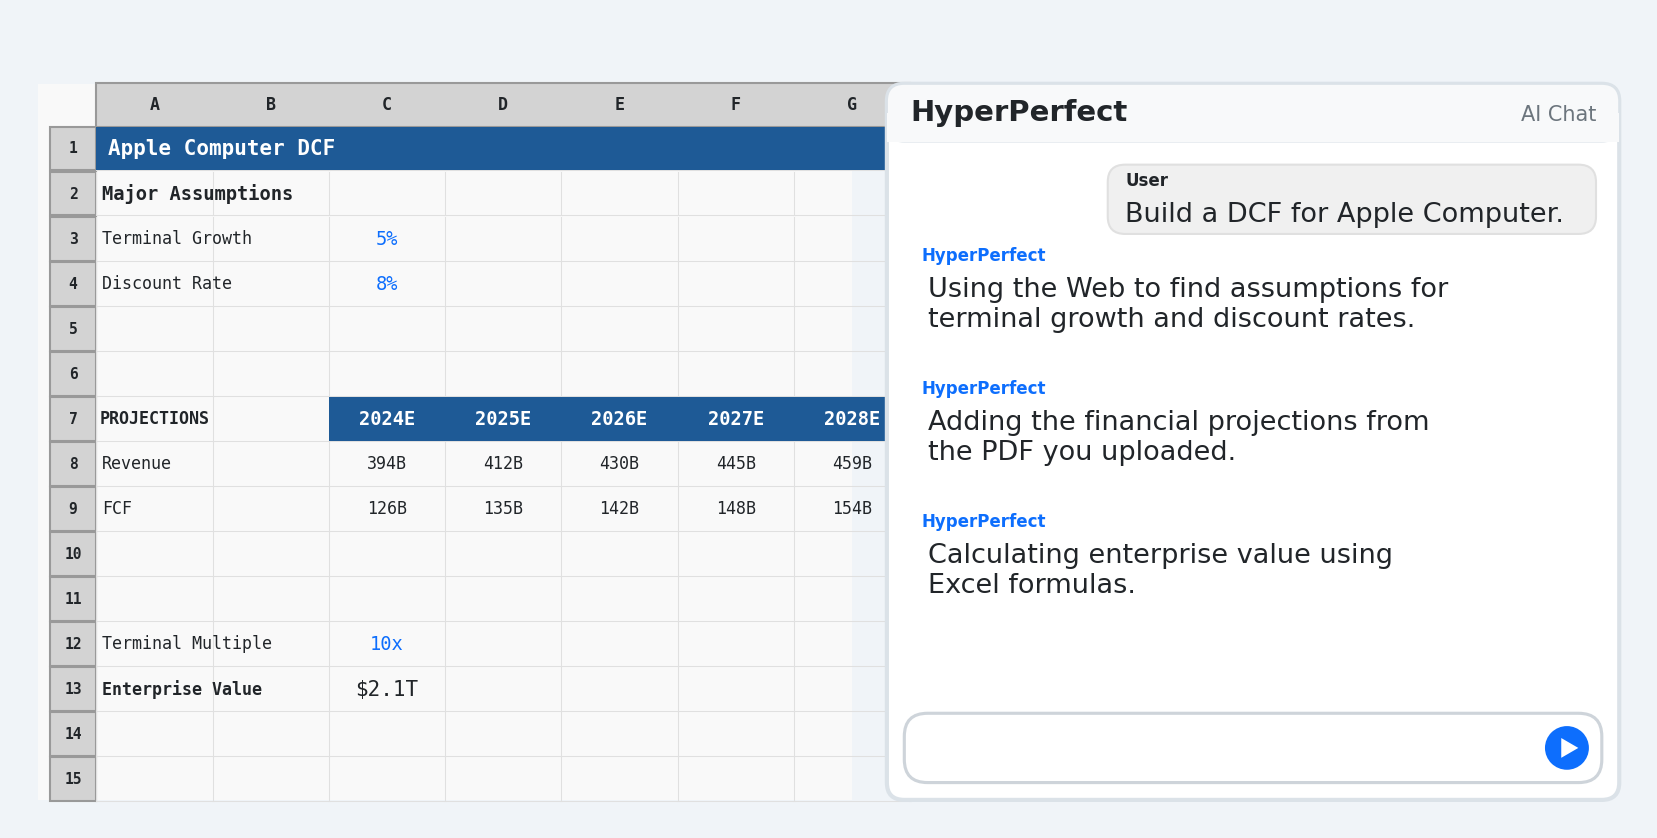
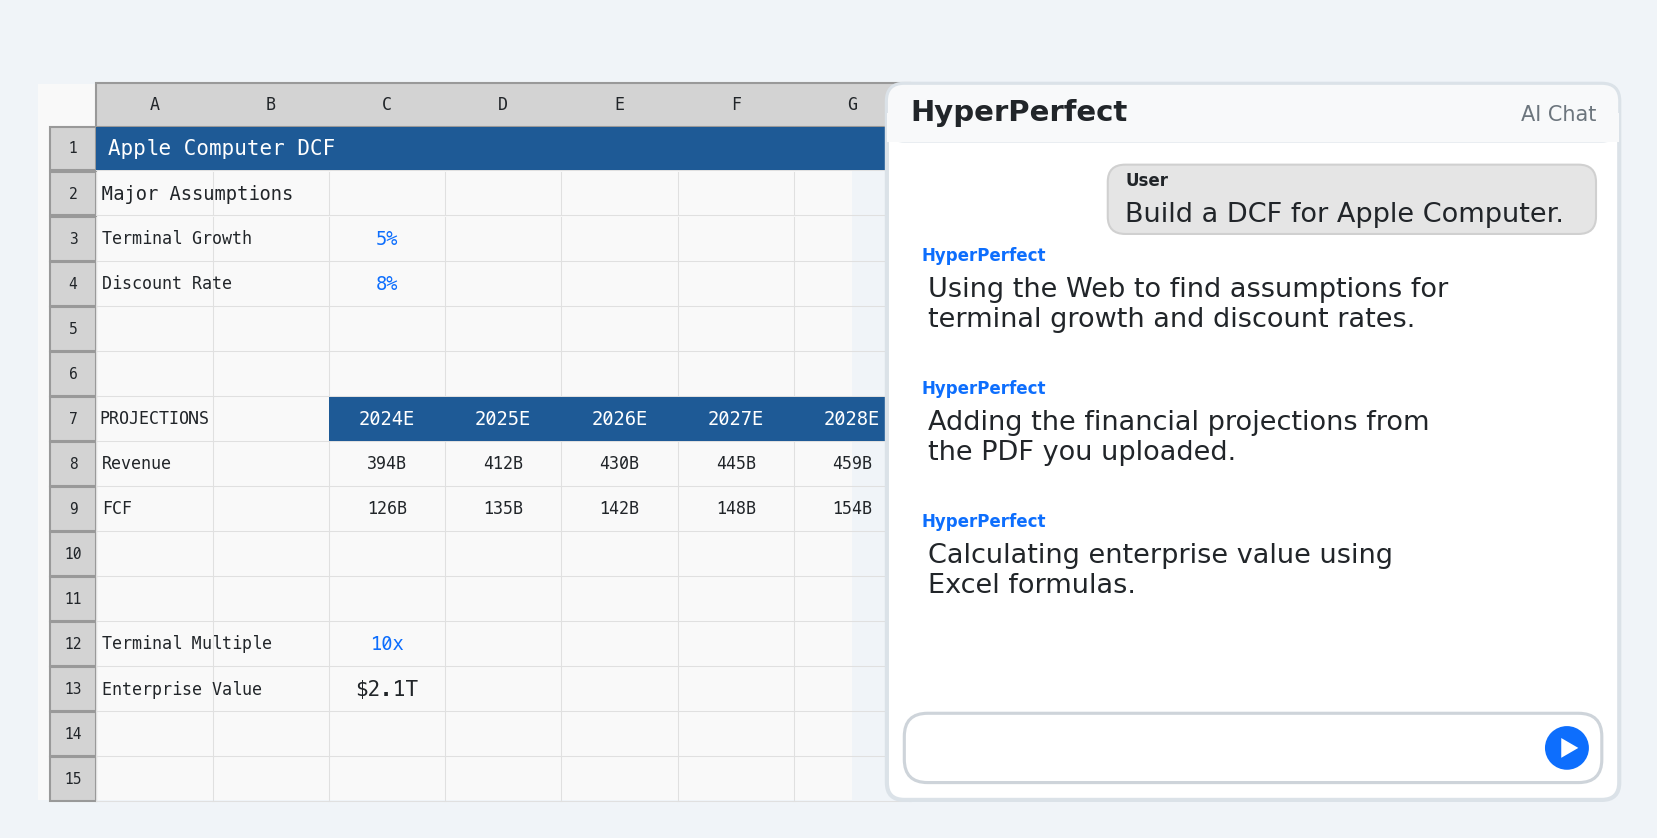
good enough

diff --git a/assets/animations/make-dcf-animation.py b/assets/animations/make-dcf-animation.py
@@ -18,9 +18,9 @@ input_h = 60
 
 # --- Helper Functions ---
 
-def draw_rounded_rect(ax, x, y, w, h, r, color, ec=None, lw=1):
+def draw_rounded_rect(ax, x, y, w, h, r, color, ec=None, lw=1, zorder=1):
     box = patches.FancyBboxPatch((x, y), w, h, boxstyle=f"round,pad=0,rounding_size={r}",
-                                 facecolor=color, edgecolor=ec if ec else "none", linewidth=lw, zorder=1)
+                                 facecolor=color, edgecolor=ec if ec else "none", linewidth=lw, zorder=zorder)
     ax.add_patch(box)
     return box
 
@@ -36,19 +36,19 @@ def draw_ui_layout():
 
     # Add title text to blue background
     ax.text(start_x + 10, start_y + cell_h/2, 'Apple Computer DCF', fontsize=10, color='white',
-            ha='left', va='center', fontweight='bold', zorder=4, fontfamily='monospace')
+            ha='left', va='center', fontweight='bold', zorder=4, fontfamily='Menlo')
 
-    # Chat Panel (high zorder to appear in front of Excel grid)
-    draw_rounded_rect(ax, chat_x, chat_y, chat_w, chat_h, 15, 'white', '#dbe2e8', lw=2)
+    # Chat Panel (high zorder to appear in front of Excel grid and cell highlights)
+    draw_rounded_rect(ax, chat_x, chat_y, chat_w, chat_h, 15, 'white', '#dbe2e8', lw=2, zorder=10)
     # Chat Header
-    draw_rounded_rect(ax, chat_x, chat_y + chat_h - header_h, chat_w, header_h, 15, '#f8f9fa', '#dbe2e8')
+    draw_rounded_rect(ax, chat_x, chat_y + chat_h - header_h, chat_w, header_h, 15, '#f8f9fa', '#dbe2e8', zorder=10)
     rect_chat = patches.Rectangle((chat_x, chat_y + chat_h - header_h), chat_w, header_h/2, facecolor='#f8f9fa', zorder=50)
     ax.add_patch(rect_chat)
     ax.text(chat_x + 20, chat_y + chat_h - 32, "HyperPerfect", fontsize=14, fontweight='bold', color='#212529', zorder=51)
     ax.text(chat_x + chat_w - 20, chat_y + chat_h - 32, "AI Chat", fontsize=10, color='#6c757d', zorder=51, ha='right')
 
     # Input Box Area
-    draw_rounded_rect(ax, chat_x + 15, chat_y + 15, chat_w - 30, input_h, 20, '#ffffff', '#ced4da', lw=1.5)
+    draw_rounded_rect(ax, chat_x + 15, chat_y + 15, chat_w - 30, input_h, 20, '#ffffff', '#ced4da', lw=1.5, zorder=10)
 
     # Send Button
     circle = patches.Circle((chat_x + chat_w - 45, chat_y + 45), 18, color='#0d6efd', zorder=52)
@@ -63,9 +63,10 @@ def draw_user_message(text, y_pos):
     bubble_x = chat_x + chat_w - bubble_w - 20
 
     # Higher zorder for user bubble to appear in GIF
+    # Use a more distinct gray (#e5e5e5) so it doesn't get quantized to white in the GIF's 256-color palette
     bubble = patches.FancyBboxPatch((bubble_x, y_pos), bubble_w, bubble_h,
                                      boxstyle="round,pad=0,rounding_size=15",
-                                     facecolor='#f0f0f0', edgecolor='#e0e0e0', linewidth=1, zorder=60)
+                                     facecolor='#e5e5e5', edgecolor='#d0d0d0', linewidth=1, zorder=60)
     ax.add_patch(bubble)
     # User label
     ax.text(bubble_x + 15, y_pos + bubble_h - 18, "User", fontsize=8, color='#212529', zorder=61, fontweight='bold')
@@ -121,7 +122,8 @@ def draw_thinking_indicator(y_pos):
 def draw_input_placeholder(text, show_cursor=True):
     """Draw input text in the input box"""
     cursor = "|" if show_cursor else ""
-    ax.text(chat_x + 30, chat_y + 40, text + cursor, fontsize=11, color='#212529', zorder=5, fontweight='normal')
+    # zorder must be higher than input box background (zorder=10)
+    ax.text(chat_x + 30, chat_y + 40, text + cursor, fontsize=11, color='#212529', zorder=15, fontweight='normal')
 
 def draw_excel_cell(x, y, w, h, text, color='white', text_color='#212529', fontweight='normal', fontsize=10, highlight=False, is_formula=False, align='center'):
     """Draw an Excel cell"""
@@ -141,10 +143,10 @@ def draw_excel_cell(x, y, w, h, text, color='white', text_color='#212529', fontw
 
         if is_formula:
             ax.text(text_x, y + h/2, str(text), fontsize=fontsize - 1, color='#d9534f',
-                    ha=align, va='center', fontweight=fontweight, zorder=3, fontfamily='monospace')
+                    ha=align, va='center', fontweight=fontweight, zorder=3, fontfamily='Menlo')
         else:
             ax.text(text_x, y + h/2, str(text), fontsize=fontsize, color=text_color,
-                    ha=align, va='center', fontweight=fontweight, zorder=3, fontfamily='monospace')
+                    ha=align, va='center', fontweight=fontweight, zorder=3, fontfamily='Menlo')
 
 # Cell reference colors for formula highlighting
 CELL_REF_COLORS = {
@@ -182,7 +184,7 @@ def draw_colored_formula(ax, x, y, formula_text, fontsize=9):
         (35, 40, CELL_REF_COLORS['C9:G9']), # C9:G9 at positions 35-39
     ]
 
-    char_width = 6.5  # Character width for monospace font
+    char_width = 8.0  # Character width for monospace font (Menlo at fontsize 9)
 
     for i, char in enumerate(formula_text):
         if i >= len(full_formula):
@@ -200,7 +202,7 @@ def draw_colored_formula(ax, x, y, formula_text, fontsize=9):
 
         char_x = x + i * char_width
         ax.text(char_x, y, char, fontsize=fontsize, color=char_color,
-                ha='left', va='center', zorder=4, fontfamily='monospace', fontweight='bold')
+                ha='left', va='center', zorder=4, fontfamily='Menlo', fontweight='bold')
 
 def draw_cell_reference_highlights(ax, formula_text, start_x, start_y, cell_w, cell_h):
     """Draw colored outlines on referenced cells only when reference is fully typed"""
@@ -259,14 +261,14 @@ def draw_excel_header_cell(x, y, w, h, text, bg_color='none', text_color='#21252
     header_rect = patches.Rectangle((x, y), w, h, facecolor=bg_color, edgecolor='none', linewidth=0, zorder=0)
     ax.add_patch(header_rect)
     ax.text(x + w/2, y + h/2, text, fontsize=9, color=text_color,
-            ha='center', va='center', fontweight='bold', zorder=3, fontfamily='monospace')
+            ha='center', va='center', fontweight='bold', zorder=3, fontfamily='Menlo')
 
 def draw_section_header(x, y, w, h, text):
     """Draw section header cell (text only, no background)"""
     header_rect = patches.Rectangle((x, y), w, h, facecolor='none', edgecolor='none', linewidth=0, zorder=2)
     ax.add_patch(header_rect)
     ax.text(x + w/2, y + h/2, text, fontsize=8, color='#212529',
-            ha='center', va='center', fontweight='bold', zorder=3, fontfamily='monospace')
+            ha='center', va='center', fontweight='bold', zorder=3, fontfamily='Menlo')
 
 def draw_excel_grid():
     """Draw the Excel grid background with column letters and row numbers"""
@@ -283,7 +285,7 @@ def draw_excel_grid():
     for i, letter in enumerate(col_letters):
         col_x = start_x + i * col_width
         ax.text(col_x + col_width/2, start_y + cell_h + cell_h/2, letter, fontsize=8, color='#212529',
-                ha='center', va='center', fontweight='bold', zorder=3, fontfamily='monospace')
+                ha='center', va='center', fontweight='bold', zorder=3, fontfamily='Menlo')
 
     # Row numbers on the left (gray background)
     for row_num in range(1, 16):
@@ -296,7 +298,7 @@ def draw_excel_grid():
 
         # Row number text
         ax.text(start_x - 20, row_y + cell_h/2, str(row_num), fontsize=7, color='#212529',
-                ha='center', va='center', fontweight='bold', zorder=3, fontfamily='monospace')
+                ha='center', va='center', fontweight='bold', zorder=3, fontfamily='Menlo')
 
     # Draw vertical and horizontal grid lines
     for i in range(len(col_letters) + 1):
@@ -634,6 +636,24 @@ for i in range((len(enterprise_formula) + 1) * 4):
             {'type': 'assumptions', 'rows': 2},
             {'type': 'projections', 'year_count': len(years), 'data_rows': 2, 'revenue_cells': len(years), 'fcf_cells': len(years)},
             {'type': 'formulas', 'formula_step': 6, 'enterprise_formula_progress': i // 4}
+        ],
+    })
+
+# Pause on complete formula so viewer can read it (1 second at 25fps)
+for i in range(25):
+    frames.append({
+        'phase': 'excel_formulas',
+        'input_text': '',
+        'chat_messages': [
+            {'text': 'Build a DCF for Apple Computer.', 'is_user': True, 'order': 0},
+            {'text': first_response, 'is_user': False, 'order': 1, 'final_height': first_response_height},
+            {'text': second_response, 'is_user': False, 'order': 2, 'final_height': second_response_height},
+            {'text': third_response, 'is_user': False, 'order': 3, 'final_height': third_response_height}
+        ],
+        'excel_content': [
+            {'type': 'assumptions', 'rows': 2},
+            {'type': 'projections', 'year_count': len(years), 'data_rows': 2, 'revenue_cells': len(years), 'fcf_cells': len(years)},
+            {'type': 'formulas', 'formula_step': 6, 'enterprise_formula_progress': len(enterprise_formula)}
         ],
     })
 
